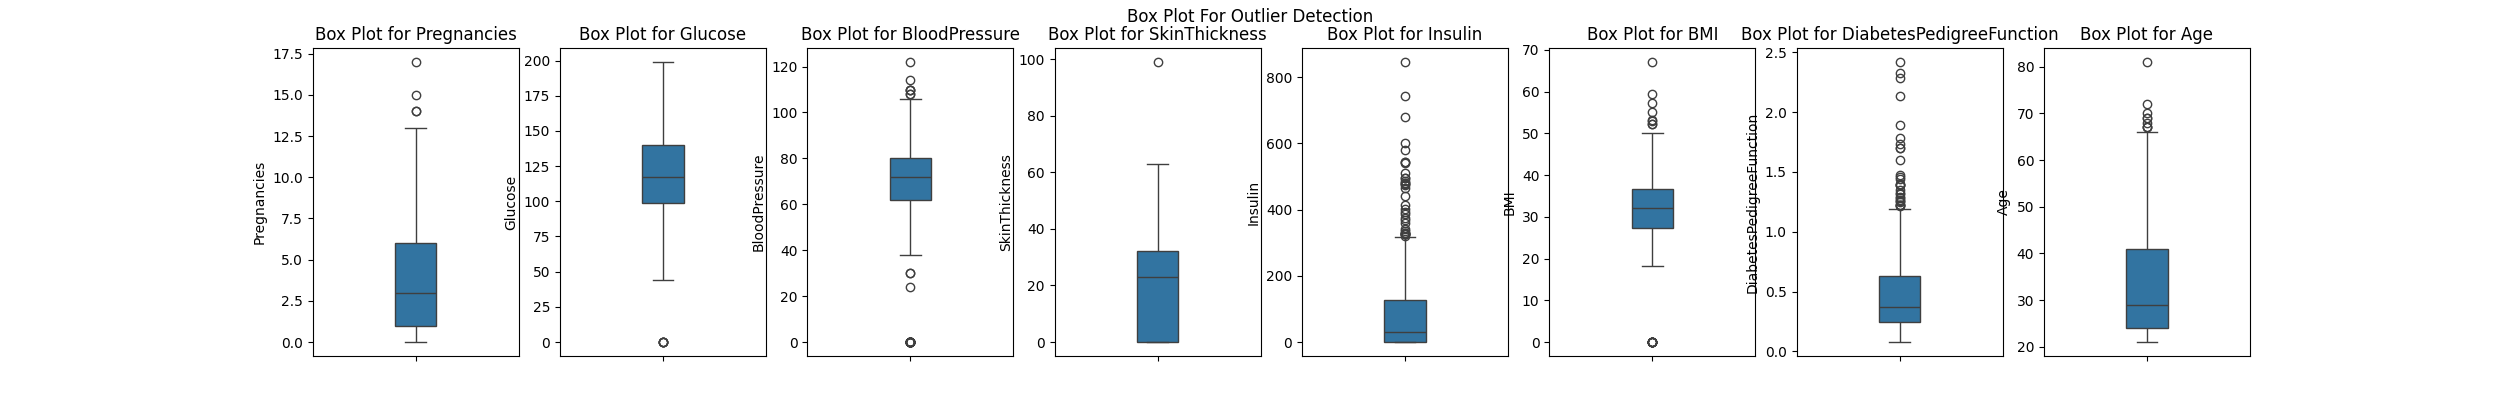
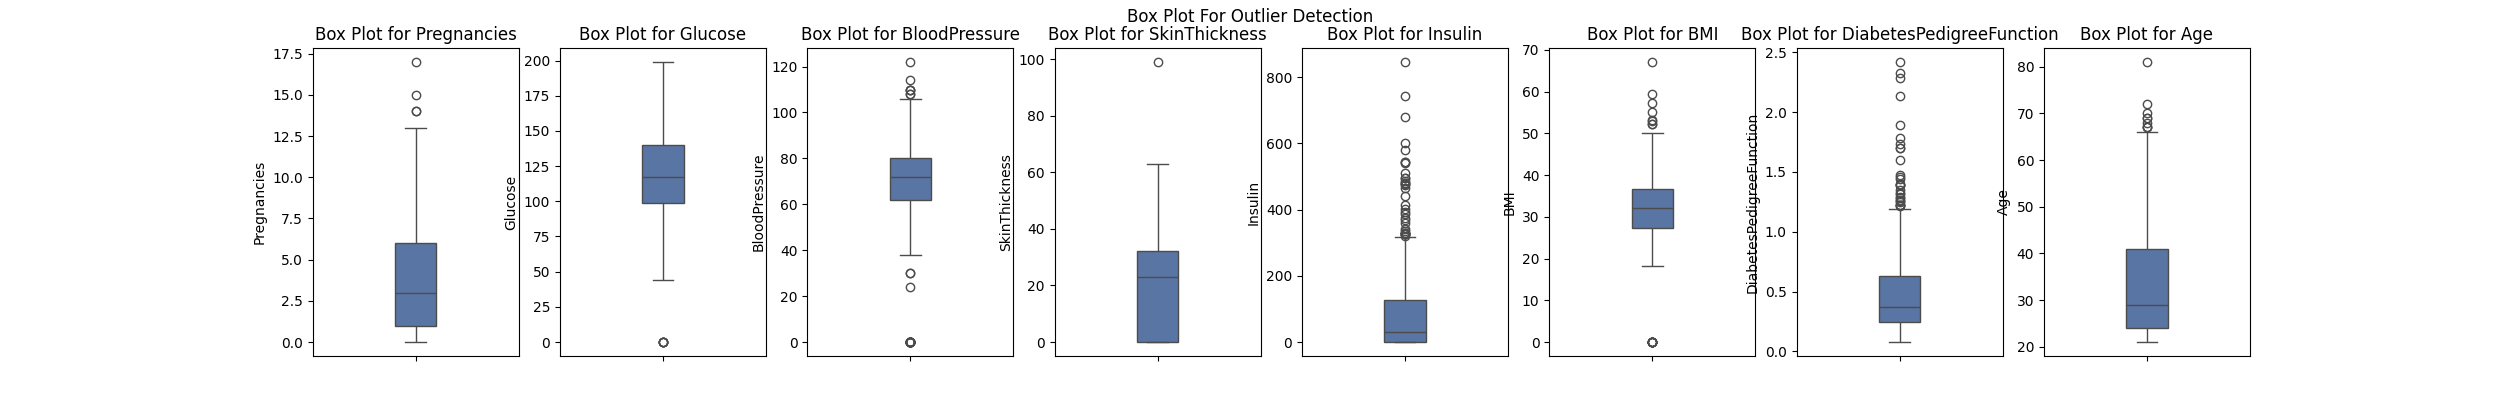
Path Change
File path change and addition of few more statistical metrics

diff --git a/src/__eda.py b/src/__eda.py
@@ -8,30 +8,30 @@ import scipy.stats as stats
 from sklearn.preprocessing import MinMaxScaler
 from sklearn.preprocessing import StandardScaler
 
-
+sns.set_palette(palette='deep')
 
 class Diabetes:
     def __init__(self):
-        self.df = pd.read_csv(r'C:\Users\shrut\OneDrive\Pictures\wallpapers\Documents\Projects\Data-Analysis-With-Pima-Diabetes-Dataset\datasets\diabetes.csv')
+        self.df = pd.read_csv(r'.\Data-Analysis-With-Pima-Diabetes-Dataset\datasets\diabetes.csv')
         self.feature_list = self.df.columns
         
     def __dataset_description(self):
-        self.df.describe().to_csv(r'C:\Users\shrut\OneDrive\Pictures\wallpapers\Documents\Projects\Data-Analysis-With-Pima-Diabetes-Dataset\output\results\dataset_description.csv')
+        self.df.describe().to_csv(r'.\Data-Analysis-With-Pima-Diabetes-Dataset\output\results\dataset_description.csv')
 
     def __freq(self):
         for feature in self.feature_list:
-            pd.DataFrame(self.df[feature].value_counts()).to_csv(r'C:\Users\shrut\OneDrive\Pictures\wallpapers\Documents\Projects\Data-Analysis-With-Pima-Diabetes-Dataset\output\results\freq.csv',mode='a')
+            pd.DataFrame(self.df[feature].value_counts()).to_csv(r'.\Data-Analysis-With-Pima-Diabetes-Dataset\output\results\freq.csv',mode='a')
             
     def __mean(self):
         self.mean = self.df.mean(numeric_only=True,skipna=True)
-        self.mean.to_csv(r'C:\Users\shrut\OneDrive\Pictures\wallpapers\Documents\Projects\Data-Analysis-With-Pima-Diabetes-Dataset\output\results\mean.csv')
+        self.mean.to_csv(r'.\Data-Analysis-With-Pima-Diabetes-Dataset\output\results\mean.csv')
     def __median(self):
         self.median = self.df.median(numeric_only=True,skipna=True)
-        self.median.to_csv(r'C:\Users\shrut\OneDrive\Pictures\wallpapers\Documents\Projects\Data-Analysis-With-Pima-Diabetes-Dataset\output\results\median.csv')
+        self.median.to_csv(r'.\Data-Analysis-With-Pima-Diabetes-Dataset\output\results\median.csv')
         
     def __mode(self):
         self.mode = self.df.mode(numeric_only=True)
-        self.mode.to_csv(r'C:\Users\shrut\OneDrive\Pictures\wallpapers\Documents\Projects\Data-Analysis-With-Pima-Diabetes-Dataset\output\results\mode.csv')
+        self.mode.to_csv(r'.\Data-Analysis-With-Pima-Diabetes-Dataset\output\results\mode.csv')
         
     def __mean_median_deviation(self):
         temp = pd.DataFrame( (np.array(self.mean) - np.array(self.median)) / 100)
@@ -50,16 +50,18 @@ class Diabetes:
             self.df.fillna(self.median, inplace=True)
     
     def __boxplot(self):
-        self.hue = np.random.randint(100,size=8)
         fig,axes= plt.subplots(1,8,figsize=(25,4),squeeze=False)
         fig.suptitle('Box Plot For Outlier Detection')
         for i in range(8):
             sns.cubehelix_palette(as_cmap=True)
             sns.boxplot(self.df[self.feature_list[i]],width=0.2,ax=axes[0][i])
             axes[0][i].set_title(f'Box Plot for {self.feature_list[i]}')
-        plt.savefig(r'C:\Users\shrut\OneDrive\Pictures\wallpapers\Documents\Projects\Data-Analysis-With-Pima-Diabetes-Dataset\output\img\boxplot.png')
+        plt.savefig(r'.\Data-Analysis-With-Pima-Diabetes-Dataset\output\img\boxplot.png')
     
-    
+    def __std(self):
+        self.std = self.df.std(numeric_only=True)
+        self.std.to_csv(r'.\Data-Analysis-With-Pima-Diabetes-Dataset\output\results\std.csv')
+        
     
     def __normal_distr(self):
         fig,axes = plt.subplots(1,8,figsize=(25,4),squeeze=False)
@@ -67,14 +69,39 @@ class Diabetes:
         for i in range(8):
             sns.histplot(data=self.df,x=self.df[self.feature_list[i]],kde=True,ax=axes[0][i])
             axes[0][i].set_title(f'{self.feature_list[i]}')
-        plt.savefig(r'C:\Users\shrut\OneDrive\Pictures\wallpapers\Documents\Projects\Data-Analysis-With-Pima-Diabetes-Dataset\output\img\histplot.png')
+        plt.savefig(r'.\Data-Analysis-With-Pima-Diabetes-Dataset\output\img\histplot.png')
         
-    def __skew(self):
-        pass
+    def __skewness(self):
+        self.skew = self.df.skew(numeric_only=True)
+        self.skew.to_csv(r'.\Data-Analysis-With-Pima-Diabetes-Dataset\output\results\skew.csv')
     
-    def __kurt(self):
-        pass
+    def __kurtosis(self):    
+        self.kurt = self.df.kurtosis(numeric_only=True)
+        self.kurt.to_csv(r'.\Data-Analysis-With-Pima-Diabetes-Dataset\output\results\kurtosis.csv')
+    
+    def __outlier_remove(self):
+        for feature in self.feature_list:
+            q1 = self.df[feature].quantile(0.25)
+            q3 = self.df[feature].quantile(0.75)
             
+            iqr = q3 - q1
+            
+            upper = q3 + 1.5 * iqr
+            lower = q1 - 1.5 * iqr
+            
+            self.df_cleaned = self.df[(self.df[feature] < upper ) & (self.df[feature] > lower)]
+            self.df = self.df_cleaned
+                       
+    def __cov(self):
+        self.cov = self.df.cov(numeric_only=True)
+        self.cov.to_csv(r'.\Data-Analysis-With-Pima-Diabetes-Dataset\output\results\cov.csv')
+    
+    def __corr(self):
+        self.corr = self.df.corr(numeric_only=True)
+        self.corr.to_csv(r'.\Data-Analysis-With-Pima-Diabetes-Dataset\output\results\corr.csv')
+    
+    def __scatter(self):
+        pass
         
     def analysis(self):
         self.__dataset_description()
@@ -84,6 +111,11 @@ class Diabetes:
         self.__mode()
         self.__fill_nulls()
         self.__boxplot()
+        self.__skewness()
+        self.__kurtosis()
+        self.__normal_distr()
+        self.__outlier_remove()
+        
 
         
 
